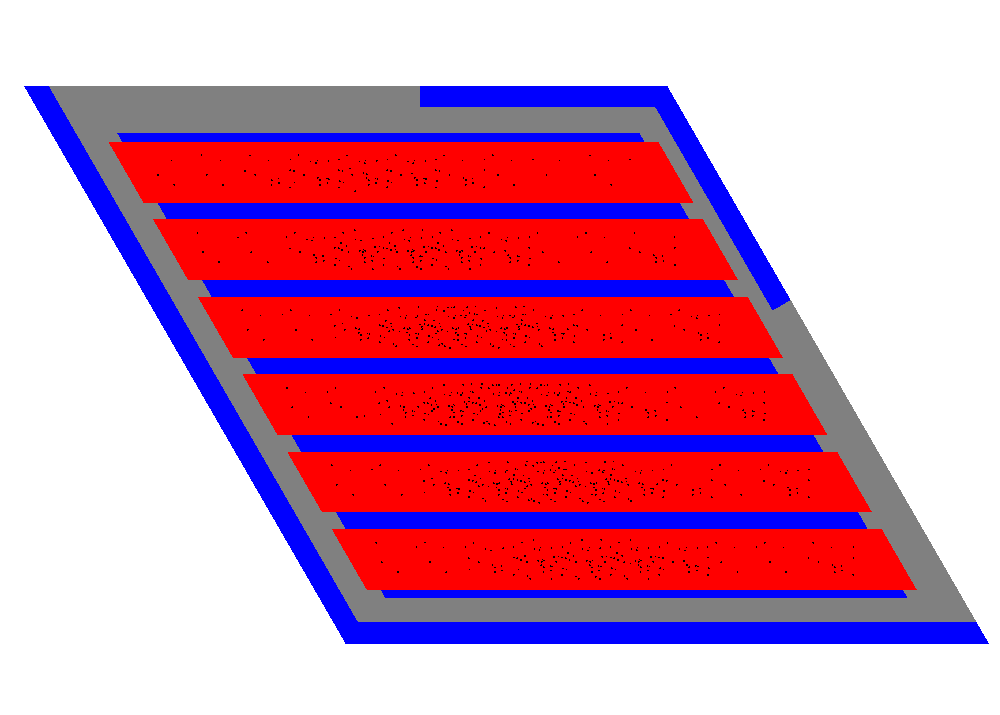
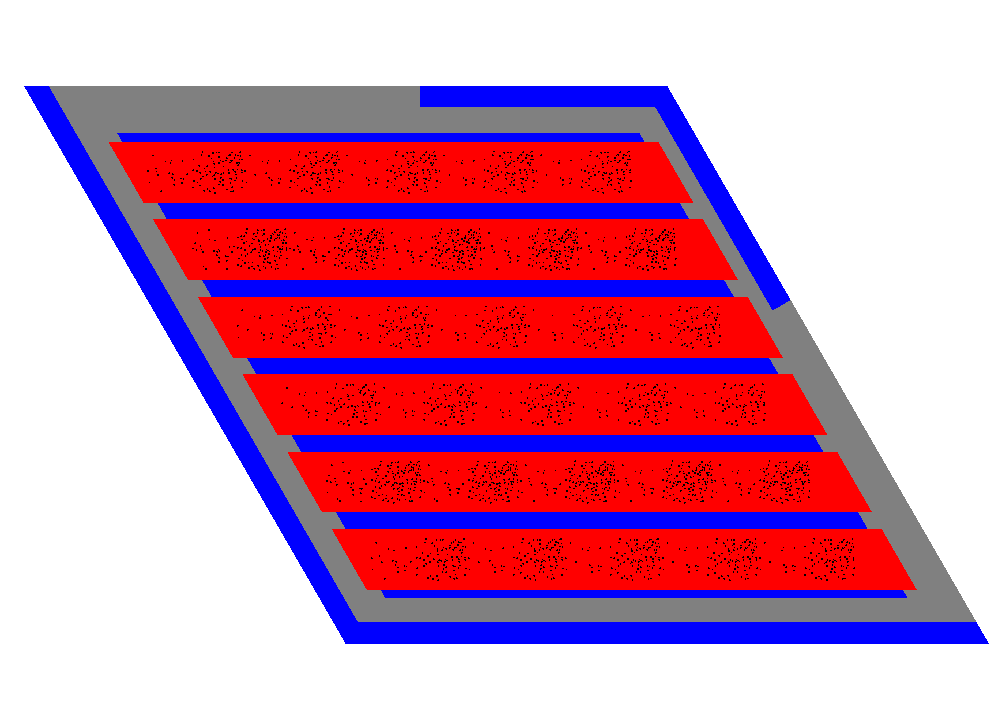
writing

diff --git a/docs/ahtr_rollo_assem.tex b/docs/ahtr_rollo_assem.tex
@@ -178,7 +178,9 @@ assembly model with the most-minimized $PF_{total}$.
     \begin{subfigure}{0.7\textwidth}
         \includegraphics[width=\linewidth]{assem-obj-1-pf-most-minimized.png}
         \caption{\gls{AHTR} one-third assembly model with the most-minimized 
-        $PF_{total}$.}
+        $PF_{total}$, corresponding to the the first TRISO distribution in Figure 
+        \ref{fig:assem-obj-1-pf-final}. The reactor model has $PF_{total}=0.0559$
+        and $k_{eff}=1.3802$.}
         \label{fig:assem-obj-1-pf-most-minimized} 
     \end{subfigure}
     \caption{(contd.) Simulation a-1a -- ROLLO single-objective optimization to minimize total 
